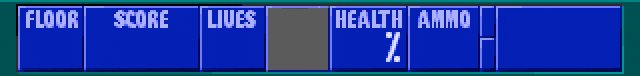
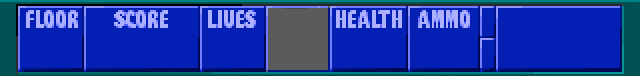
Get rid of the % in the hud.

Changed region(s): [[0.5938, 0.4211, 0.625, 0.8158]]

diff --git a/wolf3d.rb b/wolf3d.rb
@@ -343,7 +343,7 @@ class GameWindow < Gosu::Window
     
     @hud_portret[portret_id].draw(268, 414, ZOrder::HUD)
     # Health
-    self.draw_number(@player.health, 366)
+    self.draw_number(@player.health, 375)
     # Score
     self.draw_number(@player.score, 178)
   end
